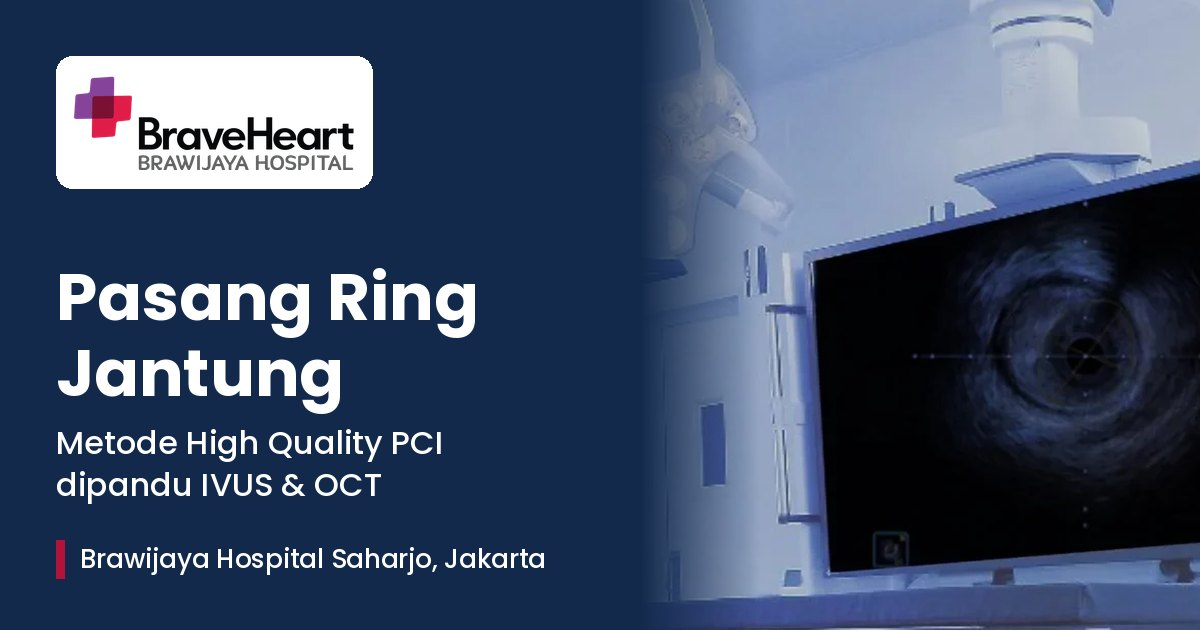
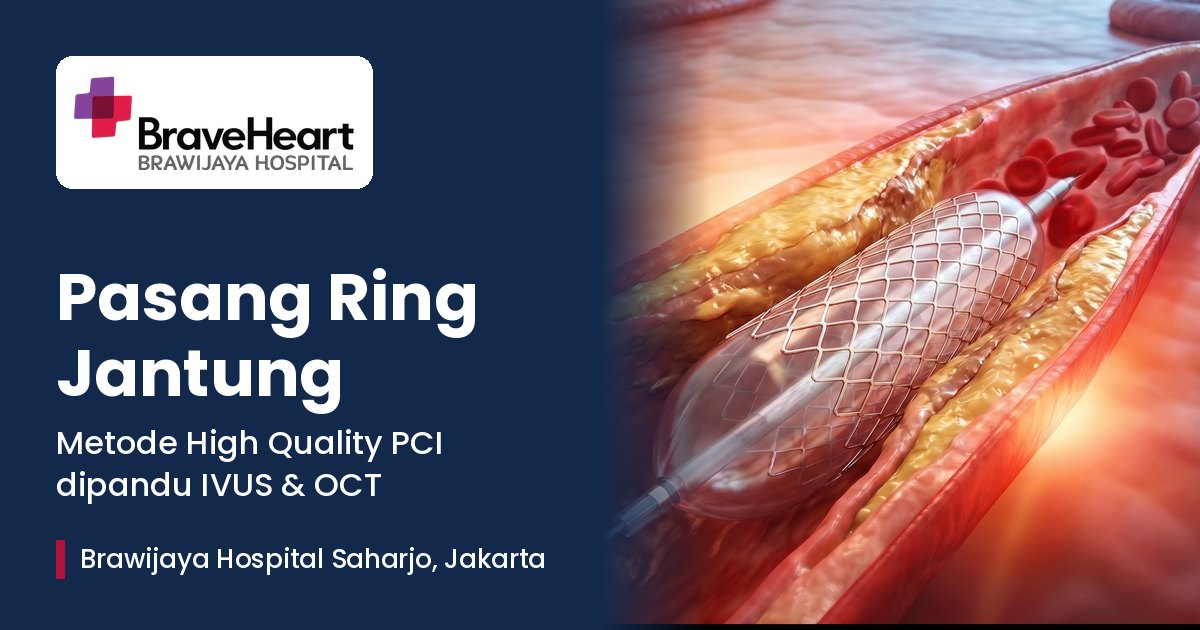
main

diff --git a/index.html b/index.html
@@ -17,8 +17,8 @@
 <meta property="og:url" content="https://chica126.github.io/pci/">
 <meta property="og:title" content="Pasang Ring Jantung dengan Metode High Quality PCI | BraveHeart">
 <meta property="og:description" content="Pasang ring jantung tanpa membuka dada, dengan kamera mini di dalam pembuluh darah (IVUS &amp; OCT) di BraveHeart, Brawijaya Hospital Saharjo.">
-<meta property="og:image" content="https://chica126.github.io/pci/images/og-image.jpg">
-<meta property="og:image:secure_url" content="https://chica126.github.io/pci/images/og-image.jpg">
+<meta property="og:image" content="https://chica126.github.io/pci/images/og-image-v2.jpg">
+<meta property="og:image:secure_url" content="https://chica126.github.io/pci/images/og-image-v2.jpg">
 <meta property="og:image:type" content="image/jpeg">
 <meta property="og:image:width" content="1200">
 <meta property="og:image:height" content="630">
@@ -26,7 +26,7 @@
 <meta name="twitter:card" content="summary_large_image">
 <meta name="twitter:title" content="Pasang Ring Jantung dengan Metode High Quality PCI | BraveHeart">
 <meta name="twitter:description" content="Pasang ring jantung tanpa membuka dada, dipandu IVUS &amp; OCT di BraveHeart, Brawijaya Hospital Saharjo.">
-<meta name="twitter:image" content="https://chica126.github.io/pci/images/og-image.jpg">
+<meta name="twitter:image" content="https://chica126.github.io/pci/images/og-image-v2.jpg">
 <script type="application/ld+json">
 {
  "@context": "https://schema.org",
@@ -46,7 +46,7 @@
    "publisher": {
     "@id": "https://chica126.github.io/pci/#hospital"
    },
-   "primaryImageOfPage": "https://chica126.github.io/pci/images/og-image.jpg"
+   "primaryImageOfPage": "https://chica126.github.io/pci/images/og-image-v2.jpg"
   },
   {
    "@type": "MedicalProcedure",
@@ -79,7 +79,7 @@
    "alternateName": "BraveHeart",
    "url": "https://chica126.github.io/pci/",
    "logo": "https://chica126.github.io/pci/images/brand-braveheart-logo.png",
-   "image": "https://chica126.github.io/pci/images/og-image.jpg",
+   "image": "https://chica126.github.io/pci/images/og-image-v2.jpg",
    "telephone": "+6287714425196",
    "address": {
     "@type": "PostalAddress",
@@ -667,7 +667,7 @@ body{margin:0}
     </div>
 
     <div class="tech flip">
-      <div class="tech-img"><img src="images/tech-rotablator-oas.jpg" alt="Teknologi Rotablator dan OAS"></div>
+      <div class="tech-img"><img src="images/tech-rotablator.webp" alt="Ilustrasi Rotablator: bor mini berlapis berlian mengikis plak yang mengapur di dalam pembuluh darah jantung" loading="lazy"></div>
       <div>
         <span class="tech-tag">Rotablator &amp; OAS</span>
         <h3>Bor mini untuk sumbatan yang sudah keras</h3>
@@ -677,7 +677,7 @@ body{margin:0}
     </div>
 
     <div class="tech">
-      <div class="tech-img"><img src="images/hero-cathlab.webp" alt="Cathlab BraveHeart terintegrasi ICCU"></div>
+      <div class="tech-img"><img src="images/tech-rotablator-oas.jpg" alt="Ruang Cathlab BraveHeart yang terhubung langsung dengan ICCU" loading="lazy"></div>
       <div>
         <span class="tech-tag">Cathlab &amp; ICCU</span>
         <h3>Ruang tindakan langsung terhubung ke ruang rawat intensif</h3>
